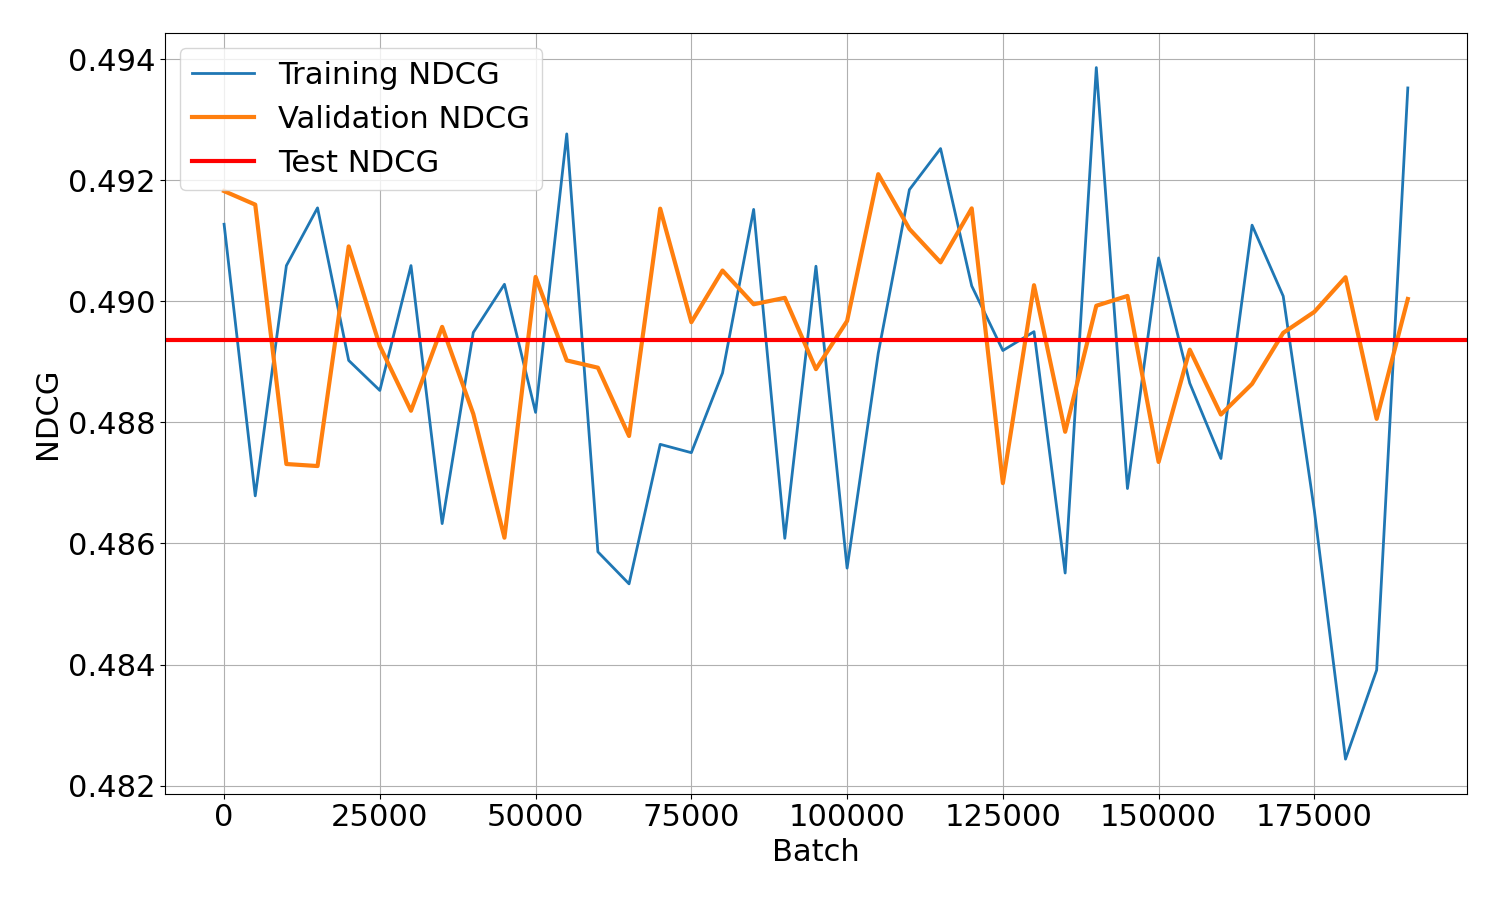
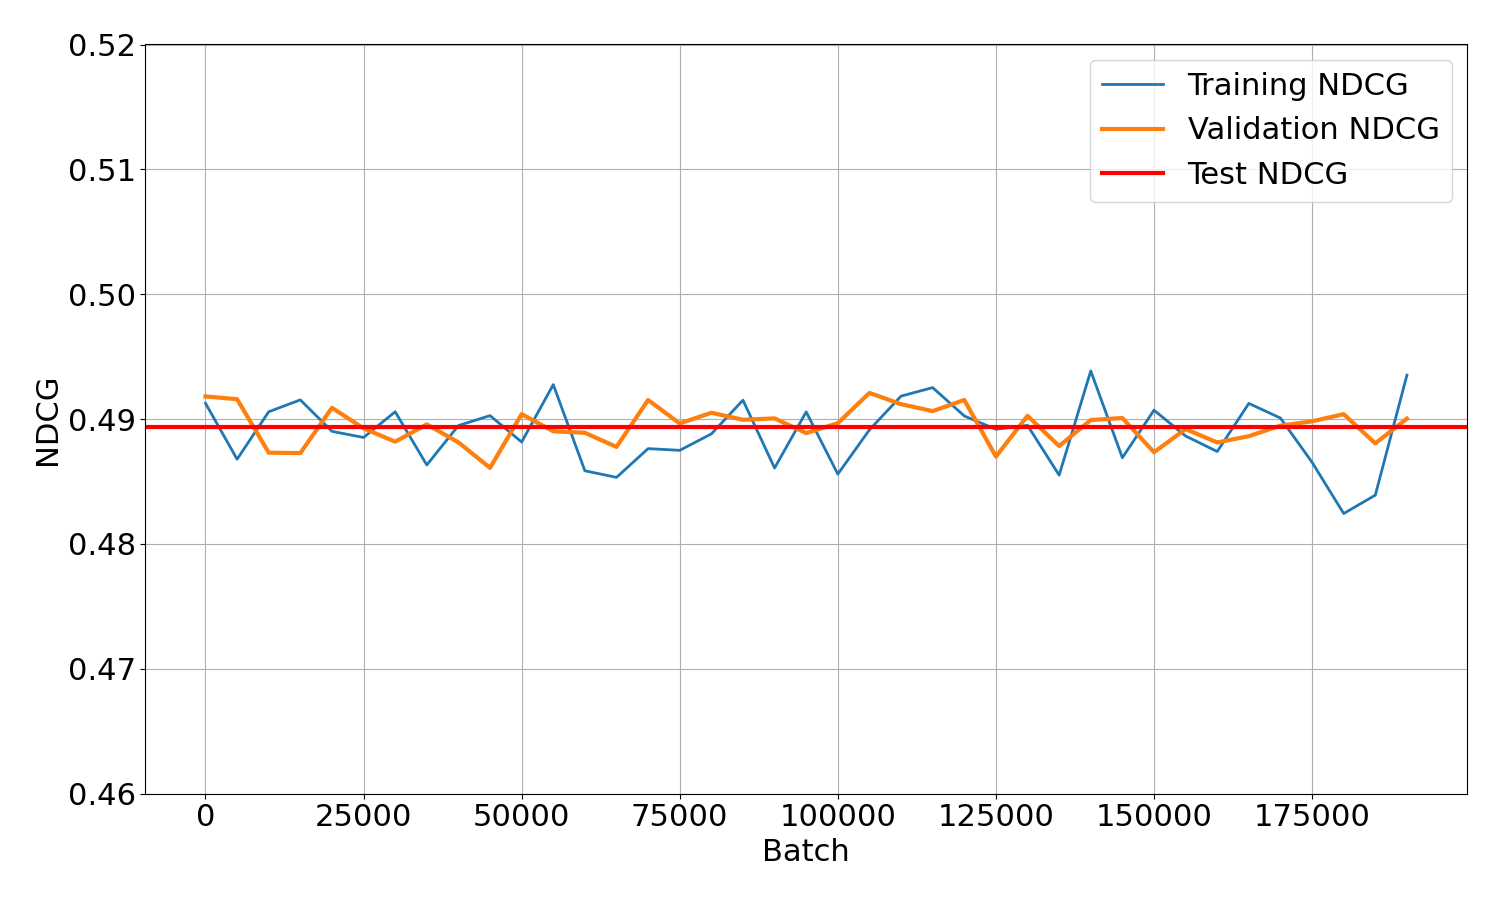
New plots with better axis

diff --git a/code/train_ranknet.py b/code/train_ranknet.py
@@ -244,7 +244,7 @@ def plotting(train_losses, valid_losses, test_loss, variables_string, optimal_ba
     # plt.axvline(optimal_batch, linestyle="dashed", color='red', label="Optimal model", lw=3)
     # plt.title('Losses over training, including final test loss using optimal model')
 
-
+    plt.ylim((0.46, 0.52))
     plt.xlabel('Batch')
     plt.ylabel('NDCG')
     plt.grid(True)
